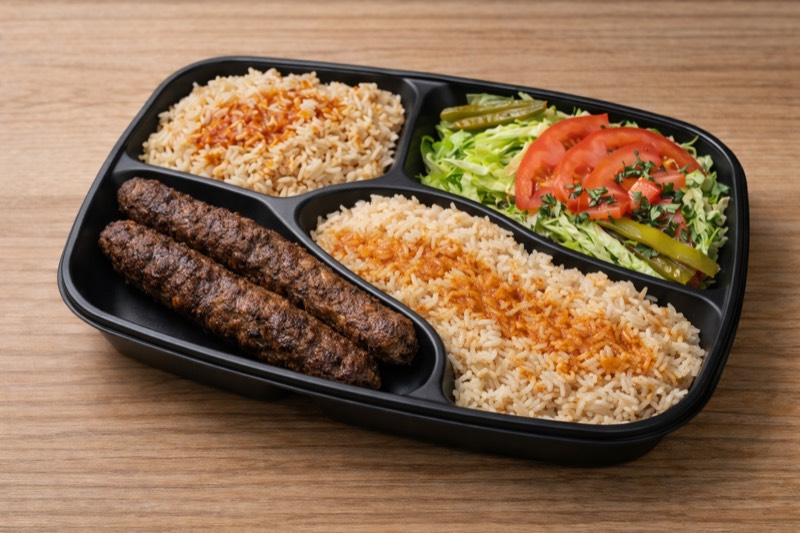
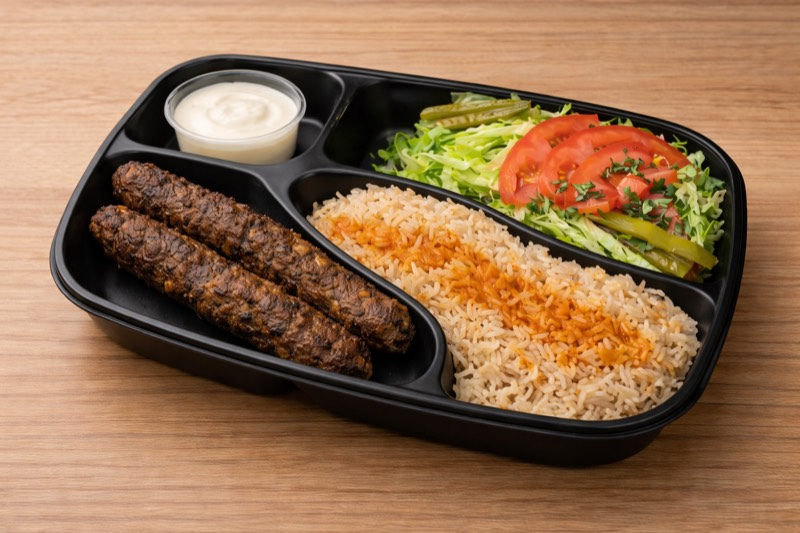
Nouvelle photo Kafta Méchoui + ajout sauces 0,70€

diff --git a/index.html b/index.html
@@ -537,7 +537,7 @@ const DEMO_ITEMS = [
   {id:12, categorie_id:2, nom:'Formule 3', description:'Sandwich + dessert + boisson', prix:11.90, emoji:'3⃣', image_url:'img/formule-3.jpg', disponible:true},
   {id:13, categorie_id:2, nom:'Formule 4', description:'2 sandwiches au choix + boisson', prix:14.90, emoji:'4⃣', image_url:'img/formule-4.jpg', disponible:true},
   {id:14, categorie_id:2, nom:'Formule Plat du Jour', description:'Plat du jour + boisson', prix:13.90, emoji:'🍽', disponible:true},
-  {id:20, categorie_id:3, nom:'Kafta Méchoui', description:'2 brochettes boeuf, riz, crudités', prix:13.00, emoji:'🍢', disponible:true},
+  {id:20, categorie_id:3, nom:'Kafta Méchoui', description:'2 brochettes boeuf, riz, crudités', prix:13.00, emoji:'🍢', image_url:'img/kafta-mechoui.jpg', disponible:true},
   {id:21, categorie_id:3, nom:'Chich Taouk', description:'2 brochettes poulet, riz, crudités', prix:13.00, emoji:'🍗', disponible:true},
   {id:22, categorie_id:3, nom:'Shawarma Poulet ou Boeuf', description:'Émincé mariné grillé à la broche, riz, crudités', prix:15.00, emoji:'🌯', disponible:true},
   {id:24, categorie_id:3, nom:'Grillade Mixte', description:'Shawarma poulet, kafta, chich taouk, riz, crudités', prix:16.00, emoji:'🔥', disponible:true},
